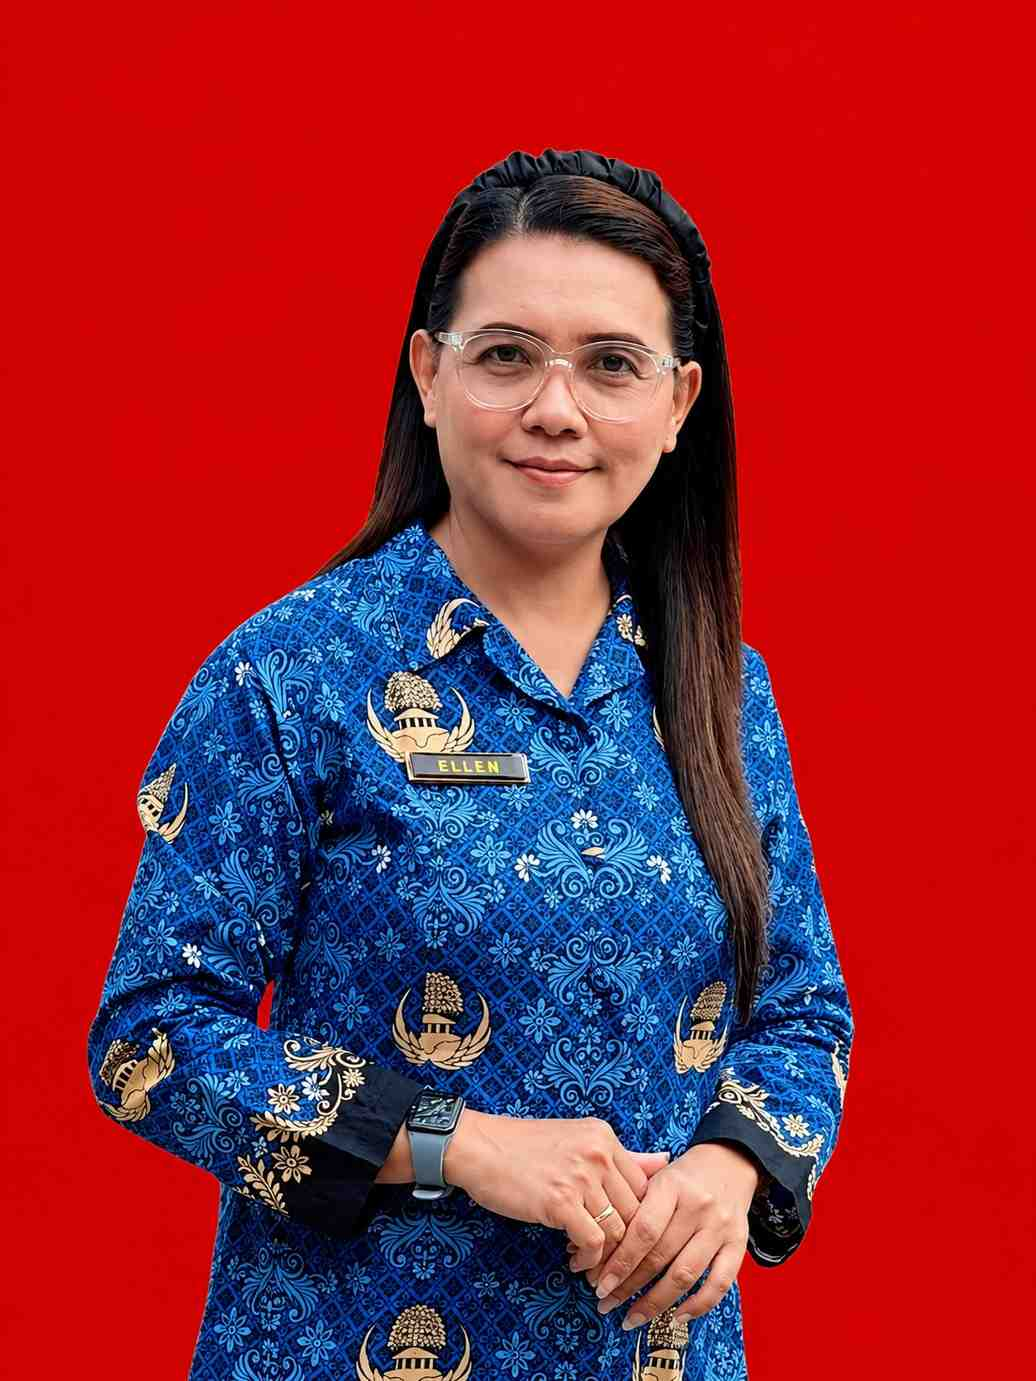
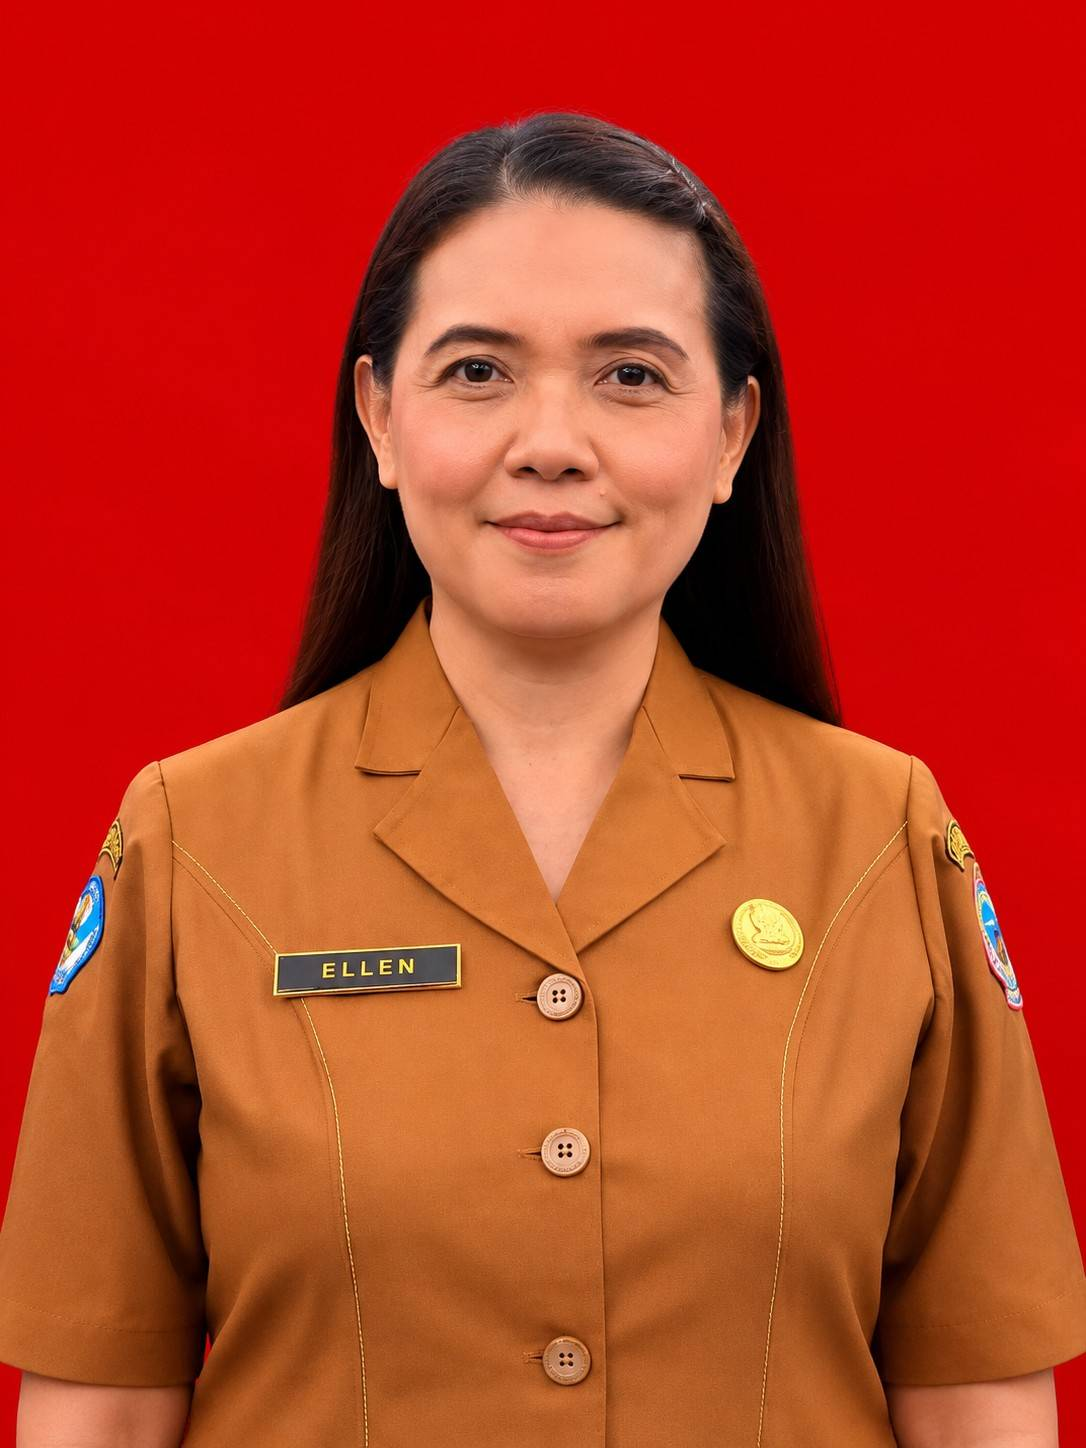
revisi 2

diff --git a/src/components/About.tsx b/src/components/About.tsx
@@ -5,24 +5,24 @@ import { CheckCircle2, Quote, Award, Shield, Heart, Target, Compass } from 'luci
 export const About: React.FC = () => {
   const coreValues = [
     {
-      icon: <Award className="w-6 h-6 sm:w-10 sm:h-10 text-brand-red" />,
-      title: "Prestasi Unggul",
-      desc: "Mendorong seluruh civitas akademika untuk mencapai potensi terbaik di berbagai bidang."
-    },
-    {
-      icon: <Shield className="w-6 h-6 sm:w-10 sm:h-10 text-brand-red" />,
-      title: "Karakter Mulia",
-      desc: "Membina akhlak, integritas, dan kedisiplinan sebagai landasan utama pendidikan."
-    },
-    {
-      icon: <Heart className="w-6 h-6 sm:w-10 sm:h-10 text-brand-red" />,
-      title: "Kepedulian Sosial",
-      desc: "Menanamkan empati, kerja sama, dan rasa tanggung jawab sosial kepada lingkungan."
-    },
-    {
       icon: <CheckCircle2 className="w-6 h-6 sm:w-10 sm:h-10 text-brand-red" />,
-      title: "Inovasi Belajar",
-      desc: "Menerapkan metode pembelajaran adaptif yang terintegrasi dengan teknologi terkini."
+      title: "Berkarakter",
+      desc: "Menjunjung tinggi nilai moral, etika, dan tanggung jawab sosial."
+    },
+    {
+      icon: <Award className="w-6 h-6 sm:w-10 sm:h-10 text-brand-red" />,
+      title: "Berprestasi",
+      desc: "Berorientasi pada keunggulan akademik dan non-akademik."
+    },
+    {
+      icon: <Target className="w-6 h-6 sm:w-10 sm:h-10 text-brand-red" />,
+      title: "Inovatif",
+      desc: "Terbuka terhadap ide baru dan berani menciptakan solusi kreatif."
+    },
+    {
+      icon: <Compass className="w-6 h-6 sm:w-10 sm:h-10 text-brand-red" />,
+      title: "Adaptif",
+      desc: "Siap menghadapi perubahan dan kemajuan teknologi secara positif."
     }
   ];
 
@@ -81,9 +81,9 @@ export const About: React.FC = () => {
                 <div className="w-10 h-10 sm:w-12 sm:h-12 bg-white/20 text-white rounded-xl sm:rounded-2xl flex items-center justify-center shrink-0">
                   <Target className="w-5 h-5 sm:w-6 sm:h-6" />
                 </div>
-                <h3 className="text-xl sm:text-2xl font-bold font-display tracking-wide">Visi Sekolah</h3>
+                <h3 className="text-2xl sm:text-3xl font-bold font-display tracking-wide">Visi Sekolah</h3>
               </div>
-              <p className="text-sm sm:text-lg font-medium leading-snug sm:leading-relaxed italic text-red-50 text-justify">
+              <p className="text-sm sm:text-base font-medium leading-relaxed italic text-red-50 text-justify">
                 "{SCHOOL_INFO.vision}"
               </p>
             </div>
@@ -95,7 +95,7 @@ export const About: React.FC = () => {
               <div className="w-10 h-10 sm:w-12 sm:h-12 bg-white/10 text-white rounded-xl sm:rounded-2xl flex items-center justify-center shrink-0">
                 <Compass className="w-5 h-5 sm:w-6 sm:h-6" />
               </div>
-              <h3 className="text-xl sm:text-3xl font-bold font-display tracking-wide">Misi Sekolah</h3>
+              <h3 className="text-2xl sm:text-3xl font-bold font-display tracking-wide">Misi Sekolah</h3>
             </div>
             
             <div className="space-y-4 sm:space-y-6 flex-1">
@@ -104,7 +104,7 @@ export const About: React.FC = () => {
                   <div className="w-6 h-6 sm:w-8 sm:h-8 rounded-full bg-white/10 flex items-center justify-center shrink-0 mt-0.5 border border-white/20 text-white font-bold text-xs sm:text-sm">
                     {idx + 1}
                   </div>
-                  <p className="text-gray-300 text-xs sm:text-base leading-snug sm:leading-relaxed group-hover/misi:text-white transition-colors duration-300 text-justify">
+                  <p className="text-gray-300 text-sm sm:text-base leading-relaxed group-hover/misi:text-white transition-colors duration-300 text-justify">
                     {misi}
                   </p>
                 </div>
@@ -112,6 +112,31 @@ export const About: React.FC = () => {
             </div>
           </div>
 
+        </div>
+      </div>
+
+      {/* 2.1 TUJUAN SECTION (Matching layout) */}
+      <div className="max-w-7xl mx-auto px-4 sm:px-6 lg:px-8 mb-4 relative z-10 mt-6 lg:mt-8">
+        <div className="bg-white text-slate-800 p-5 sm:p-8 rounded-[20px] sm:rounded-3xl shadow-lg border border-gray-100 transition-transform duration-300 hover:-translate-y-1">
+          <div className="flex items-center gap-3 sm:gap-4 mb-4 sm:mb-6">
+            <div className="w-10 h-10 sm:w-12 sm:h-12 bg-red-50 text-brand-red rounded-xl sm:rounded-2xl flex items-center justify-center shrink-0">
+              <Target className="w-5 h-5 sm:w-6 sm:h-6" />
+            </div>
+            <h3 className="text-2xl sm:text-3xl font-bold font-display tracking-wide text-brand-navy">Tujuan Sekolah</h3>
+          </div>
+          
+          <div className="grid grid-cols-1 md:grid-cols-2 gap-3 sm:gap-5">
+            {SCHOOL_INFO.goals.map((tujuan, idx) => (
+              <div key={idx} className="flex gap-3 sm:gap-4 items-start group/tujuan bg-slate-50 p-4 sm:p-5 rounded-2xl hover:bg-red-50 transition-colors duration-300">
+                <div className="w-6 h-6 sm:w-8 sm:h-8 rounded-full bg-brand-navy text-white flex items-center justify-center shrink-0 mt-0.5 shadow-sm font-bold text-xs sm:text-sm">
+                  {idx + 1}
+                </div>
+                <p className="text-gray-600 text-sm sm:text-base leading-relaxed group-hover/tujuan:text-brand-navy transition-colors duration-300 text-justify">
+                  {tujuan}
+                </p>
+              </div>
+            ))}
+          </div>
         </div>
       </div>
 
@@ -139,7 +164,7 @@ export const About: React.FC = () => {
             <h3 className="text-2xl sm:text-3xl font-bold font-display text-slate-900 mb-4">Sejarah Singkat Sekolah</h3>
             <div className="text-gray-600 text-sm sm:text-base leading-relaxed space-y-4 text-justify">
               <p>SMA Negeri 1 Halmahera Utara didirikan sebagai wujud komitmen pemerintah dan masyarakat dalam memajukan pendidikan di wilayah Halmahera. Sejak awal berdirinya, sekolah ini telah menjadi pusat keunggulan dan pelopor pendidikan menengah atas di daerah ini.</p>
-              <p>Seiring berjalannya waktu, SMAN 1 Halmahera Utara terus bertransformasi dengan melengkapi fasilitas akademik dan non-akademik, serta meningkatkan kualitas pendidik, hingga berhasil meraih akreditasi A (Unggul) dan mencetak ribuan alumni yang tersebar di seluruh Indonesia dan mancanegara.</p>
+              <p>{SCHOOL_INFO.shortDescription}</p>
             </div>
           </div>
         </div>

diff --git a/src/components/ComingSoonModal.tsx b/src/components/ComingSoonModal.tsx
@@ -1,0 +1,69 @@
+import React from 'react';
+import { motion, AnimatePresence } from 'motion/react';
+import { X, Clock } from 'lucide-react';
+
+interface ComingSoonModalProps {
+  isOpen: boolean;
+  onClose: () => void;
+}
+
+export const ComingSoonModal: React.FC<ComingSoonModalProps> = ({ isOpen, onClose }) => {
+  // Prevent scrolling when modal is open
+  React.useEffect(() => {
+    if (isOpen) {
+      document.body.style.overflow = 'hidden';
+    } else {
+      document.body.style.overflow = 'unset';
+    }
+    return () => {
+      document.body.style.overflow = 'unset';
+    };
+  }, [isOpen]);
+
+  return (
+    <AnimatePresence>
+      {isOpen && (
+        <div className="fixed inset-0 z-[100] flex items-center justify-center p-4">
+          <motion.div 
+            initial={{ opacity: 0 }}
+            animate={{ opacity: 1 }}
+            exit={{ opacity: 0 }}
+            onClick={onClose}
+            className="absolute inset-0 bg-brand-navy/60 backdrop-blur-sm"
+          />
+          <motion.div
+            initial={{ opacity: 0, scale: 0.9, y: 20 }}
+            animate={{ opacity: 1, scale: 1, y: 0 }}
+            exit={{ opacity: 0, scale: 0.9, y: 20 }}
+            className="relative bg-white rounded-[24px] p-8 sm:p-10 max-w-sm w-full shadow-2xl text-center"
+          >
+            <button 
+              onClick={onClose}
+              className="absolute top-4 right-4 p-2 bg-slate-50 text-slate-400 hover:text-brand-red hover:bg-red-50 rounded-full transition-colors"
+            >
+              <X size={20} />
+            </button>
+
+            <div className="w-16 h-16 bg-blue-50 text-brand-navy rounded-full flex items-center justify-center mx-auto mb-5">
+              <Clock size={32} />
+            </div>
+            
+            <h3 className="text-2xl font-extrabold text-brand-navy font-display mb-2">
+              Segera Hadir
+            </h3>
+            <p className="text-slate-500 text-sm mb-6 leading-relaxed">
+              Fitur ini sedang dalam tahap pengembangan. Nantikan pembaruan selanjutnya!
+            </p>
+            
+            <button 
+              onClick={onClose}
+              className="w-full bg-brand-navy hover:bg-brand-red text-white font-bold py-3 px-6 rounded-xl transition-colors duration-300"
+            >
+              Mengerti
+            </button>
+          </motion.div>
+        </div>
+      )}
+    </AnimatePresence>
+  );
+};

diff --git a/src/data.ts b/src/data.ts
@@ -2,15 +2,22 @@ import { Facility, Achievement, Testimonial } from "./types";
 
 export const SCHOOL_INFO = {
   name: "SMA Negeri 1 Halmahera Utara",
-  slogan: "Unggul dalam Prestasi, Berkarakter, dan Berwawasan Global",
-  shortDescription: "Sekolah Menengah Atas berstatus Sekolah Negeri Provinsi Maluku Utara yang berdedikasi membentuk generasi unggul, kreatif, dan mandiri dengan landasan nilai karakter luhur.",
-  vision: "Terwujudnya insan pendidikan yang bertaqwa, cerdas, kreatif, berkarakter luhur, dan siap bersaing di kancah global.",
+  slogan: "Berkarakter, Berprestasi, Inovatif, Adaptif terhadap Perkembangan Teknologi",
+  shortDescription: "SMA Negeri 1 Halmahera Utara merupakan sekolah model yang mengintegrasikan pembelajaran mendalam, koding, dan kecerdasan artifisial dalam kurikulum. Sebagai sekolah mitra pembelajaran jarak jauh, lembaga ini berkomitmen untuk memperluas akses pendidikan berkualitas melalui teknologi digital, mencetak generasi yang siap bersaing di tingkat nasional maupun global.",
+  vision: "Sekolah unggul, berkarakter, berprestasi, inovatif, adaptif, berwawasan global melalui pembelajaran mendalam, koding dan kecerdasan artifisial.",
   missions: [
-    "Menyelenggarakan proses pembelajaran yang inovatif, efektif, dan berbasis teknologi.",
-    "Menanamkan nilai-nilai karakter budi pekerti, disiplin, dan religius dalam keseharian sekolah.",
-    "Mengembangkan minat, bakat, dan potensi siswa melalui program ekstrakurikuler yang komprehensif.",
-    "Membangun kemitraan yang kuat dengan orang tua, masyarakat, dan institusi global untuk kemajuan pendidikan.",
-    "Mewujudkan lingkungan sekolah yang bersih, hijau, aman, dan kondusif untuk belajar."
+    "Menanamkan nilai-nilai karakter yang kuat, berlandaskan integritas, tanggung jawab, dan kepedulian sosial dalam setiap kegiatan pembelajaran.",
+    "Meningkatkan prestasi akademik dan non-akademik melalui penerapan pembelajaran mendalam (deep learning) yang berorientasi pada pemahaman konsep dan penerapan nyata.",
+    "Mengembangkan kompetensi digital peserta didik melalui pembelajaran koding, kecerdasan artifisial, dan teknologi informasi sebagai bekal menghadapi era industri 5.0.",
+    "Mendorong inovasi dalam proses belajar mengajar dengan memanfaatkan teknologi digital dan sumber belajar terbuka.",
+    "Menjalin kemitraan dengan lembaga pendidikan dan industri dalam pelaksanaan program pembelajaran jarak jauh serta pengembangan keterampilan abad ke-21.",
+    "Mewujudkan lingkungan sekolah yang adaptif, kolaboratif, dan berorientasi pada pengembangan potensi individu secara optimal."
+  ],
+  goals: [
+    "Menghasilkan lulusan yang berkarakter kuat, berpikir kritis, kreatif, dan mampu beradaptasi dengan perubahan teknologi.",
+    "Meningkatkan kualitas pembelajaran berbasis teknologi digital dan AI.",
+    "Menjadi sekolah model dalam penerapan pembelajaran mendalam dan kolaborasi pembelajaran jarak jauh.",
+    "Membangun budaya inovasi dan literasi digital di seluruh ekosistem sekolah."
   ],
   principal: {
     name: "Ellen Sintya Dewi, S.Pd., M.Si.",
@@ -217,6 +224,14 @@ export const NEWS_DATA = [
     content: "📣 Halo, calon SobSaa 2026! 📣\nMinSaa punya kabar baik nih! 🎉\n\n🚪✨ SPMB SMAN 1 Halmahera Utara Tahun Ajaran 2026/2027 resmi dibuka!\nSaatnya melangkah lebih dekat menuju sekolah dengan Akreditasi A (Unggul) dan predikat Sekolah Penggerak yang siap mendukung setiap langkah, mimpi, dan prestasimu. 🌟\n\nDi SMANSA, kamu tidak hanya belajar untuk meraih nilai terbaik, tetapi juga bertumbuh menjadi pribadi yang berkarakter, kreatif, berprestasi, dan siap menghadapi masa depan. 📚🏆\n\n💡 Jalur Pendaftaran:\n🏅 Jalur Prestasi\n📍 Jalur Domisili\n🤝 Jalur Afirmasi\n🔄 Jalur Mutasi\n\n📌 Pastikan seluruh berkas telah disiapkan dan lakukan pendaftaran sesuai jadwal yang telah ditentukan.\nKarena setiap perjalanan besar selalu dimulai dari satu langkah kecil. Dan siapa tahu, langkah itu dimulai dari SMAN 1 Halmahera Utara. 💙✨\n\n📍 Ayo bergabung menjadi bagian dari keluarga besar SMANSA! Mari belajar, berkembang, berprestasi, dan mengukir masa depan bersama.\nSMANSA Menyapa, SobSaa Menjawab! 💙🤍\n#SPMB2026 #SMAN1HalmaheraUtara #SobSaa2026 #minSaa",
     date: "6 Juni 2026",
     image: "/assets/spmb2026.png"
+  },
+  {
+    id: "news-4",
+    title: "Warga SMAN 1 Halmahera Utara Serahkan Hewan Qurban",
+    excerpt: "Sebagai wujud kepedulian sosial, keikhlasan, dan semangat berbagi, warga SMAN 1 Halmahera Utara menyerahkan hewan qurban untuk disembelih pada Hari Raya Iduladha.",
+    content: "Sebagai wujud kepedulian sosial, keikhlasan, dan semangat berbagi, keluarga besar warga SMAN 1 Halmahera Utara menyerahkan seekor hewan qurban kepada pengurus masjid setempat untuk disembelih pada perayaan Hari Raya Iduladha. Penyerahan hewan qurban ini merupakan tradisi tahunan sekolah dalam rangka meningkatkan ketakwaan serta mempererat tali silaturahmi antara sekolah dan masyarakat sekitar.\n\nKegiatan ini diharapkan mampu menumbuhkan karakter siswa tentang pentingnya berbagi dengan sesama, kepedulian, dan rasa syukur atas nikmat yang diberikan. Semoga semangat keikhlasan ini terus menjadi inspirasi bagi seluruh elemen pendidikan di SMAN 1 Halmahera Utara.",
+    date: "30 Mei 2026",
+    image: "/assets/news2.jpg"
   },
   {
     id: "news-2",

diff --git a/src/components/Portal.tsx b/src/components/Portal.tsx
@@ -1,10 +1,14 @@
-import React from 'react';
+import React, { useState } from 'react';
 import { motion } from 'motion/react';
 import { ExternalLink } from 'lucide-react';
+import { ComingSoonModal } from './ComingSoonModal';
 
 export const Portal: React.FC = () => {
+  const [isModalOpen, setIsModalOpen] = useState(false);
+
   return (
     <div className="pt-10 pb-12 sm:pb-20 bg-[#f1f5f9] font-sans">
+      <ComingSoonModal isOpen={isModalOpen} onClose={() => setIsModalOpen(false)} />
       <div className="max-w-6xl mx-auto px-4 sm:px-6 lg:px-8">
         
         {/* Header Section */}
@@ -53,7 +57,7 @@ export const Portal: React.FC = () => {
                 <p className="text-gray-500 text-xs sm:text-sm leading-snug sm:leading-relaxed font-medium mb-4 sm:mb-8 flex-grow text-justify">
                   Sistem Informasi Akademik sekolah untuk memantau nilai, kehadiran, jadwal, dan biodata siswa.
                 </p>
-                <button className="w-full bg-slate-100 hover:bg-brand-navy hover:text-white text-brand-navy font-bold text-[11px] sm:text-[13px] py-2.5 sm:py-3 px-4 rounded-lg sm:rounded-xl flex items-center justify-center gap-1.5 sm:gap-2 transition-colors duration-300">
+                <button onClick={() => setIsModalOpen(true)} className="w-full bg-slate-100 hover:bg-brand-navy hover:text-white text-brand-navy font-bold text-[11px] sm:text-[13px] py-2.5 sm:py-3 px-4 rounded-lg sm:rounded-xl flex items-center justify-center gap-1.5 sm:gap-2 transition-colors duration-300">
                   BUKA SIAKAD <ExternalLink className="w-3.5 h-3.5 sm:w-4 sm:h-4" />
                 </button>
               </div>
@@ -69,7 +73,7 @@ export const Portal: React.FC = () => {
                 <p className="text-gray-500 text-xs sm:text-sm leading-snug sm:leading-relaxed font-medium mb-4 sm:mb-8 flex-grow text-justify">
                   Platform Learning Management System untuk kuis online, tugas kelas, dan materi pembelajaran mandiri.
                 </p>
-                <button className="w-full bg-slate-100 hover:bg-brand-navy hover:text-white text-brand-navy font-bold text-[11px] sm:text-[13px] py-2.5 sm:py-3 px-4 rounded-lg sm:rounded-xl flex items-center justify-center gap-1.5 sm:gap-2 transition-colors duration-300">
+                <button onClick={() => setIsModalOpen(true)} className="w-full bg-slate-100 hover:bg-brand-navy hover:text-white text-brand-navy font-bold text-[11px] sm:text-[13px] py-2.5 sm:py-3 px-4 rounded-lg sm:rounded-xl flex items-center justify-center gap-1.5 sm:gap-2 transition-colors duration-300">
                   BUKA LMS <ExternalLink className="w-3.5 h-3.5 sm:w-4 sm:h-4" />
                 </button>
               </div>
@@ -85,7 +89,7 @@ export const Portal: React.FC = () => {
                 <p className="text-gray-500 text-xs sm:text-sm leading-snug sm:leading-relaxed font-medium mb-4 sm:mb-8 flex-grow text-justify">
                   Akses dashboard Rapor Pendidikan Kemendikbudristek untuk pemetaan berkala mutu pendidikan.
                 </p>
-                <button className="w-full bg-slate-100 hover:bg-brand-navy hover:text-white text-brand-navy font-bold text-[11px] sm:text-[13px] py-2.5 sm:py-3 px-4 rounded-lg sm:rounded-xl flex items-center justify-center gap-1.5 sm:gap-2 transition-colors duration-300">
+                <button onClick={() => setIsModalOpen(true)} className="w-full bg-slate-100 hover:bg-brand-navy hover:text-white text-brand-navy font-bold text-[11px] sm:text-[13px] py-2.5 sm:py-3 px-4 rounded-lg sm:rounded-xl flex items-center justify-center gap-1.5 sm:gap-2 transition-colors duration-300">
                   BUKA RAPOR <ExternalLink className="w-3.5 h-3.5 sm:w-4 sm:h-4" />
                 </button>
               </div>

diff --git a/src/components/Alumni.tsx b/src/components/Alumni.tsx
@@ -1,6 +1,7 @@
-import React from 'react';
+import React, { useState } from 'react';
 import { motion } from 'motion/react';
 import { ExternalLink, Users, GraduationCap, Building, Briefcase } from 'lucide-react';
+import { ComingSoonModal } from './ComingSoonModal';
 
 export const Alumni: React.FC = () => {
   const stats = [
@@ -10,8 +11,11 @@ export const Alumni: React.FC = () => {
     { label: 'Wirausaha & Memasuki Dunia Kerja', percent: 10, color: 'bg-slate-500', icon: Briefcase },
   ];
 
+  const [isModalOpen, setIsModalOpen] = useState(false);
+
   return (
     <div className="pt-10 pb-20 bg-[#f1f5f9] min-h-screen font-sans">
+      <ComingSoonModal isOpen={isModalOpen} onClose={() => setIsModalOpen(false)} />
       <div className="max-w-6xl mx-auto px-4 sm:px-6 lg:px-8">
         
         {/* Header Section */}
@@ -62,7 +66,7 @@ export const Alumni: React.FC = () => {
               </div>
 
               <div className="relative z-10 mt-auto">
-                <button className="w-full sm:w-auto bg-brand-navy hover:bg-brand-red text-white font-bold text-sm py-4 px-8 rounded-xl flex items-center justify-center gap-2 transition-colors duration-300 shadow-md">
+                <button onClick={() => setIsModalOpen(true)} className="w-full sm:w-auto bg-brand-navy hover:bg-brand-red text-white font-bold text-sm py-4 px-8 rounded-xl flex items-center justify-center gap-2 transition-colors duration-300 shadow-md">
                   ISI FORMULIR TRACER <ExternalLink size={16} />
                 </button>
               </div>

diff --git a/src/components/Pengumuman.tsx b/src/components/Pengumuman.tsx
@@ -1,6 +1,7 @@
-import React from 'react';
+import React, { useState } from 'react';
 import { motion } from 'motion/react';
 import { FileText, ArrowRight } from 'lucide-react';
+import { ComingSoonModal } from './ComingSoonModal';
 
 export const Pengumuman: React.FC = () => {
   const announcements = [
@@ -24,8 +25,11 @@ export const Pengumuman: React.FC = () => {
     }
   ];
 
+  const [isModalOpen, setIsModalOpen] = useState(false);
+
   return (
     <div className="pt-10 pb-12 sm:pb-20 bg-[#f1f5f9] font-sans">
+      <ComingSoonModal isOpen={isModalOpen} onClose={() => setIsModalOpen(false)} />
       <div className="max-w-6xl mx-auto px-4 sm:px-6 lg:px-8">
         
         {/* Header Section */}
@@ -67,6 +71,7 @@ export const Pengumuman: React.FC = () => {
             {announcements.map((item, idx) => (
               <motion.div 
                 key={item.id}
+                onClick={() => setIsModalOpen(true)}
                 initial={{ opacity: 0, x: -20 }}
                 whileInView={{ opacity: 1, x: 0 }}
                 viewport={{ once: true, margin: "-50px" }}

diff --git a/src/components/Ekstrakurikuler.tsx b/src/components/Ekstrakurikuler.tsx
@@ -20,12 +20,12 @@ const EKSKUL_DATA = [
   {
     title: 'PMR',
     image: '/assets/pmr.jpg',
-    description: 'Wadah bagi siswa berlatih pertolongan pertama, serta menumbuhkan jiwa sosial dan rasa kemanusiaan.',
+    description: 'Wadah siswa berlatih pertolongan pertama dan menumbuhkan jiwa kemanusiaan.',
   },
   {
     title: 'Olahraga',
     image: '/assets/olahraga1.jpg',
-    description: 'Meningkatkan kebugaran jasmani, sportivitas, dan mewadahi bakat siswa di berbagai cabang olahraga.',
+    description: 'Meningkatkan kebugaran jasmani, sportivitas, dan bakat siswa di bidang olahraga.',
   }
 ];
 

diff --git a/src/components/Navbar.tsx b/src/components/Navbar.tsx
@@ -83,7 +83,7 @@ export const Navbar: React.FC<NavbarProps> = ({ activeSection, setActiveSection 
             </span>
           </div>
           <div className="flex items-center">
-            <span>Mencetak Generasi Cerdas, Berkarakter, dan Berprestasi</span>
+            <span>{SCHOOL_INFO.slogan}</span>
           </div>
         </div>
       </div>